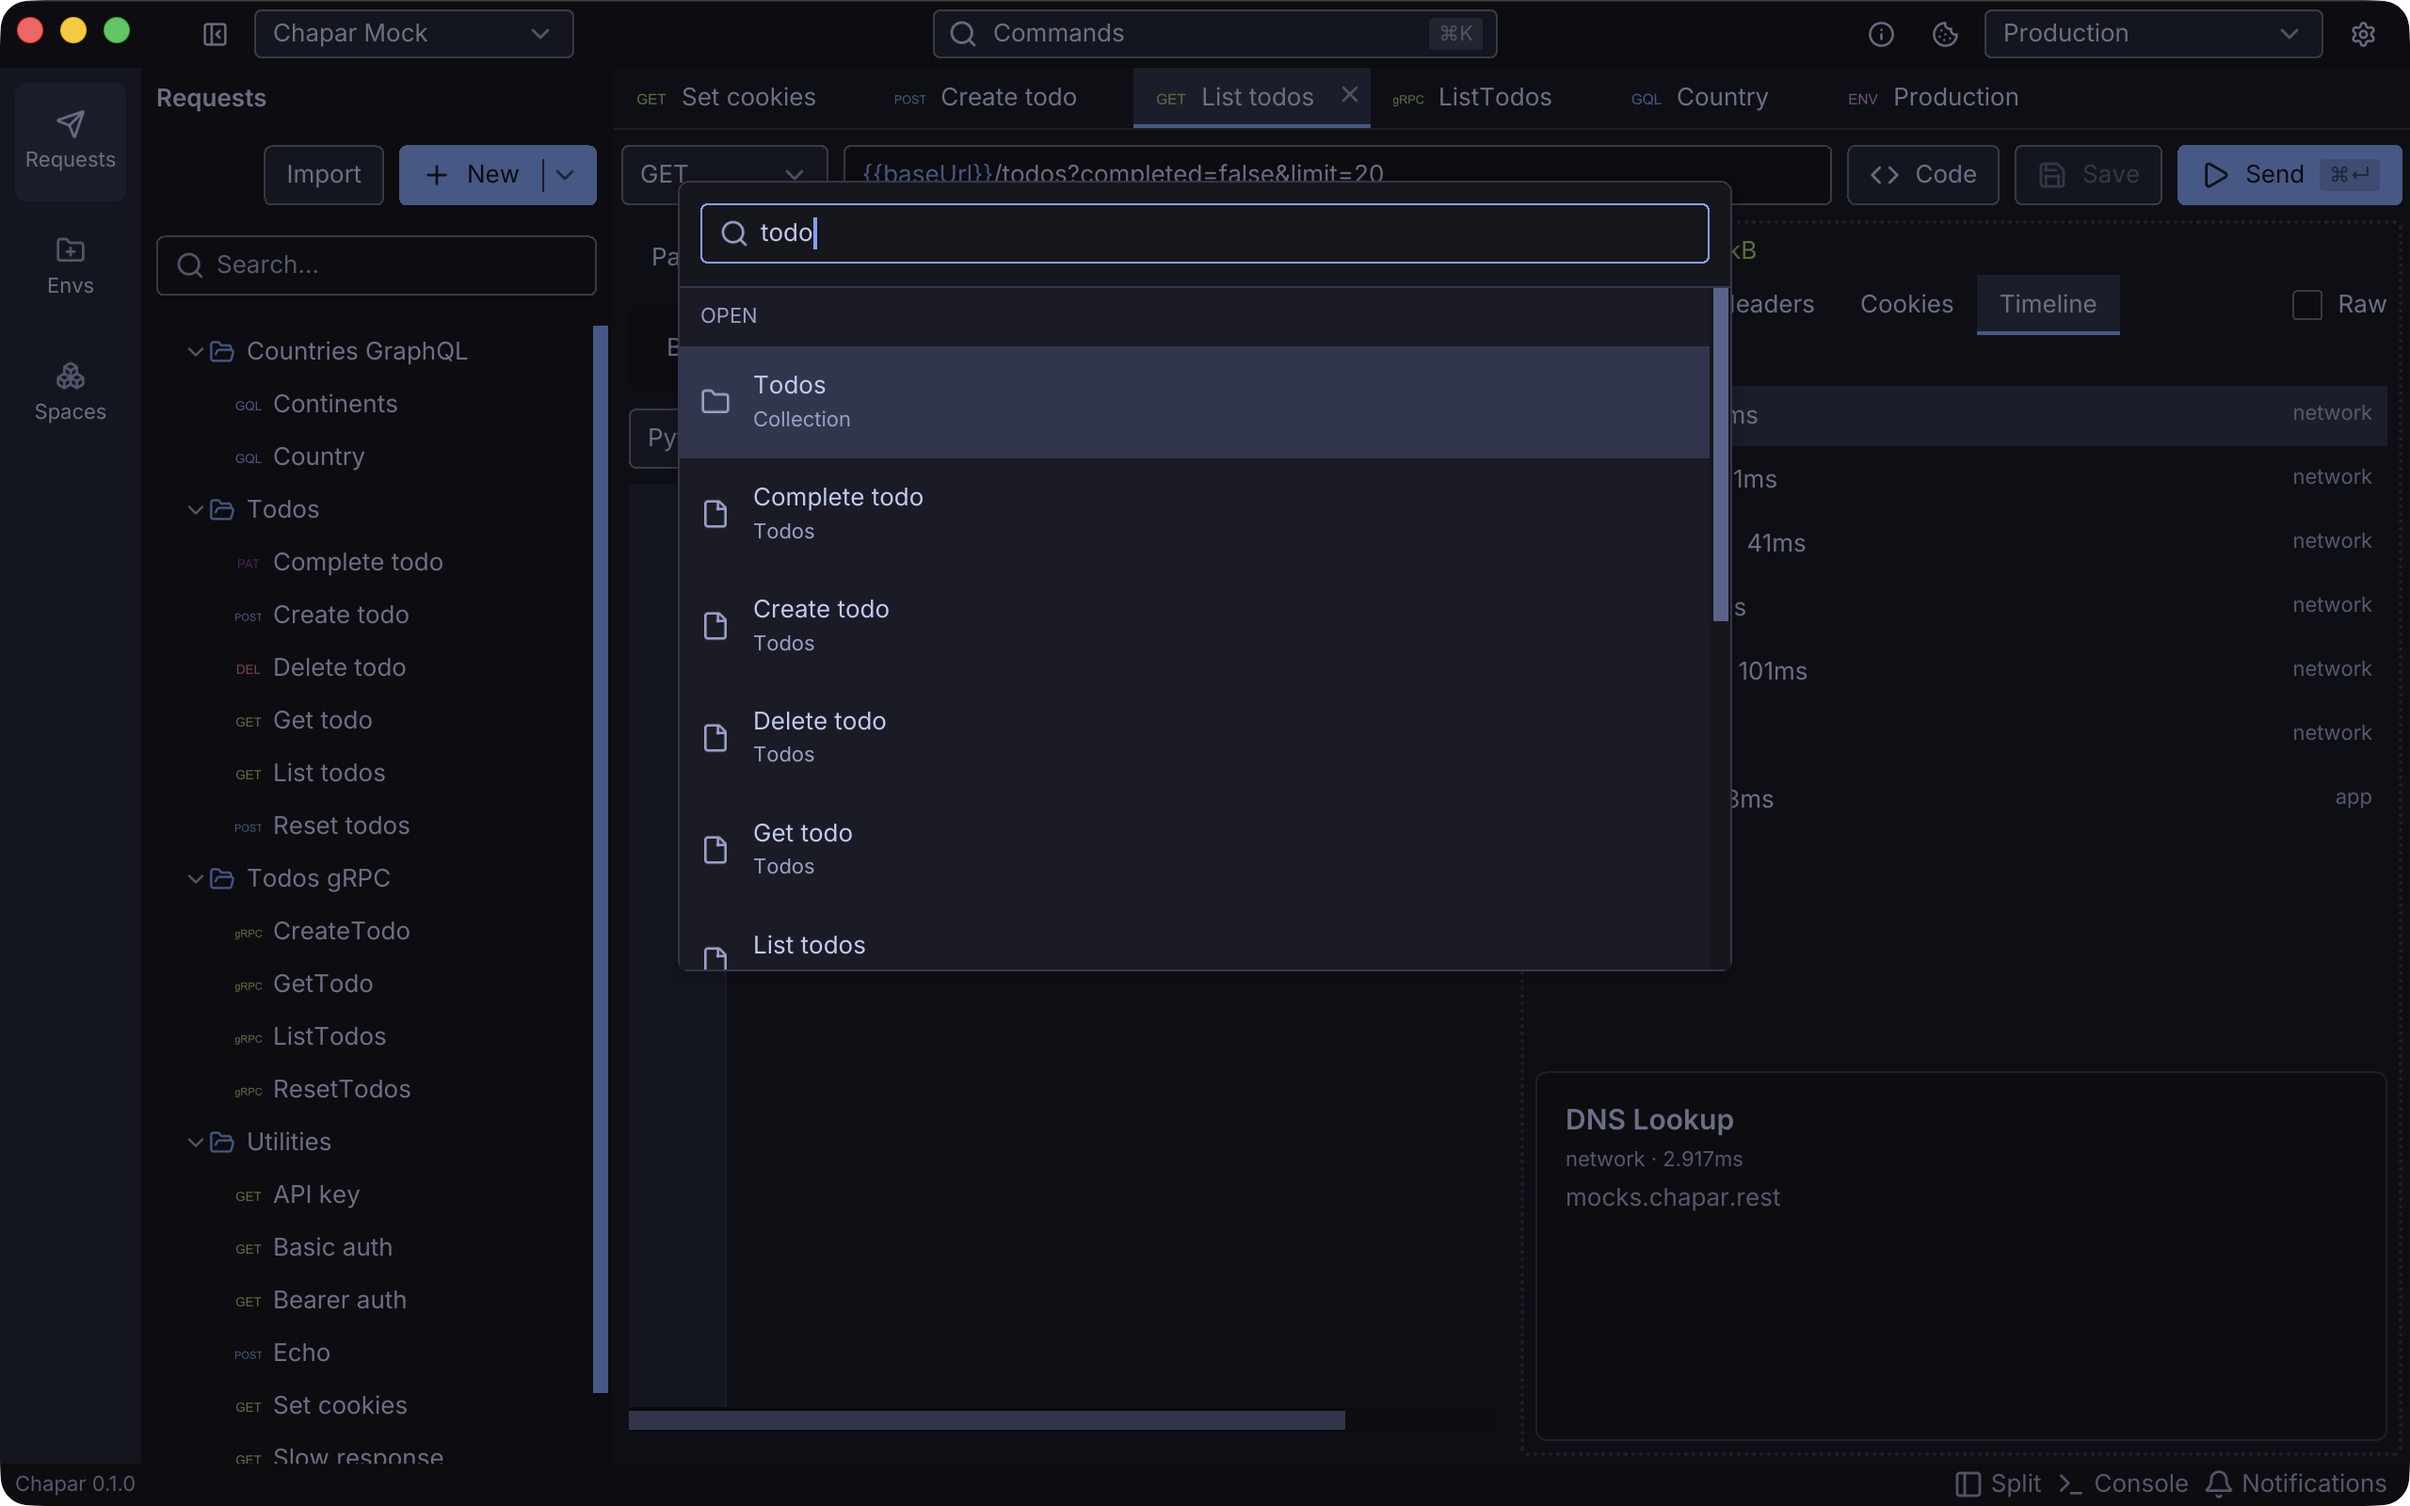
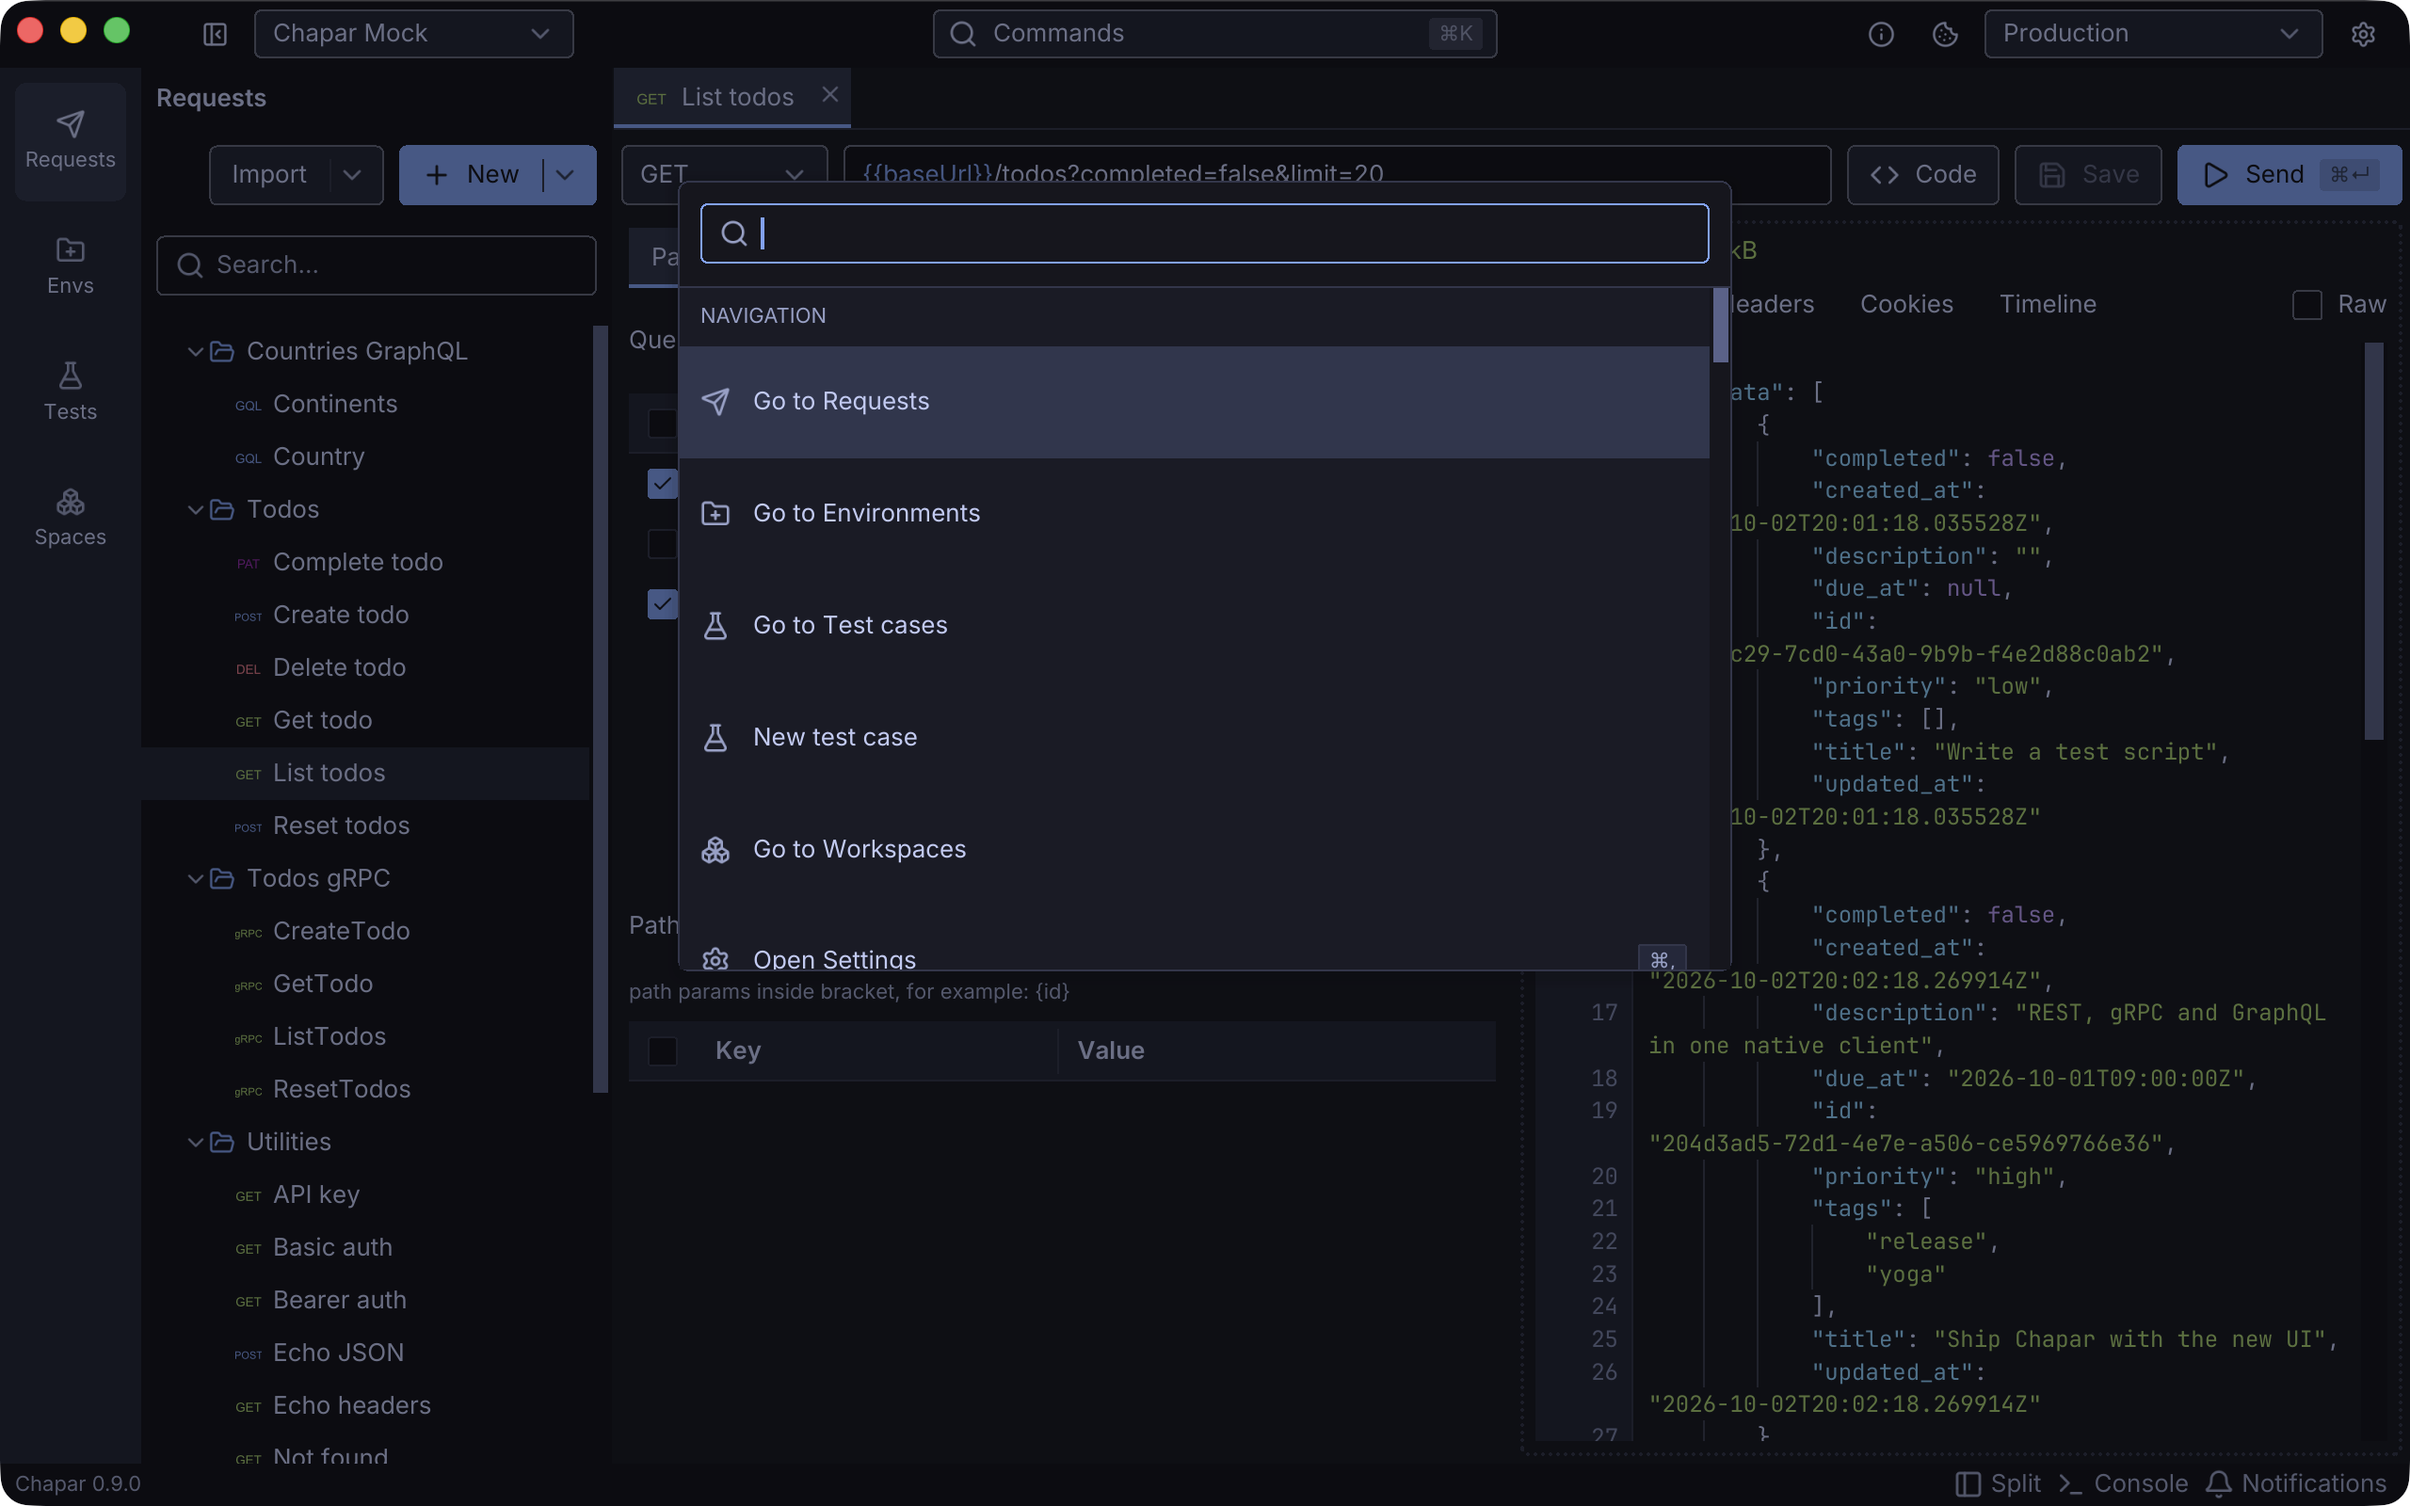
Retake screenshots for v0.9.0 and show test cases
Tokyo Night, an isolated Chapar Mock workspace against mocks.chapar.rest,
1280x800 at 2x. Adds a passing and a failing test case run.

diff --git a/README.md b/README.md
@@ -36,6 +36,8 @@ The screenshots use the Tokyo Night theme and the free [Chapar mock server](http
   <img src="./screenshots/graphql_request.png" alt="GraphQL request" width="400"/>
   <img src="./screenshots/scripting.png" alt="Python post-request script" width="400"/>
   <img src="./screenshots/timeline.png" alt="Request timeline" width="400"/>
+  <img src="./screenshots/test_case.png" alt="A test case run" width="400"/>
+  <img src="./screenshots/test_failed.png" alt="A failed test case step" width="400"/>
   <img src="./screenshots/environments.png" alt="Environments" width="400"/>
   <img src="./screenshots/cookies.png" alt="Cookie jar" width="400"/>
   <img src="./screenshots/workspaces.png" alt="Workspaces" width="400"/>
